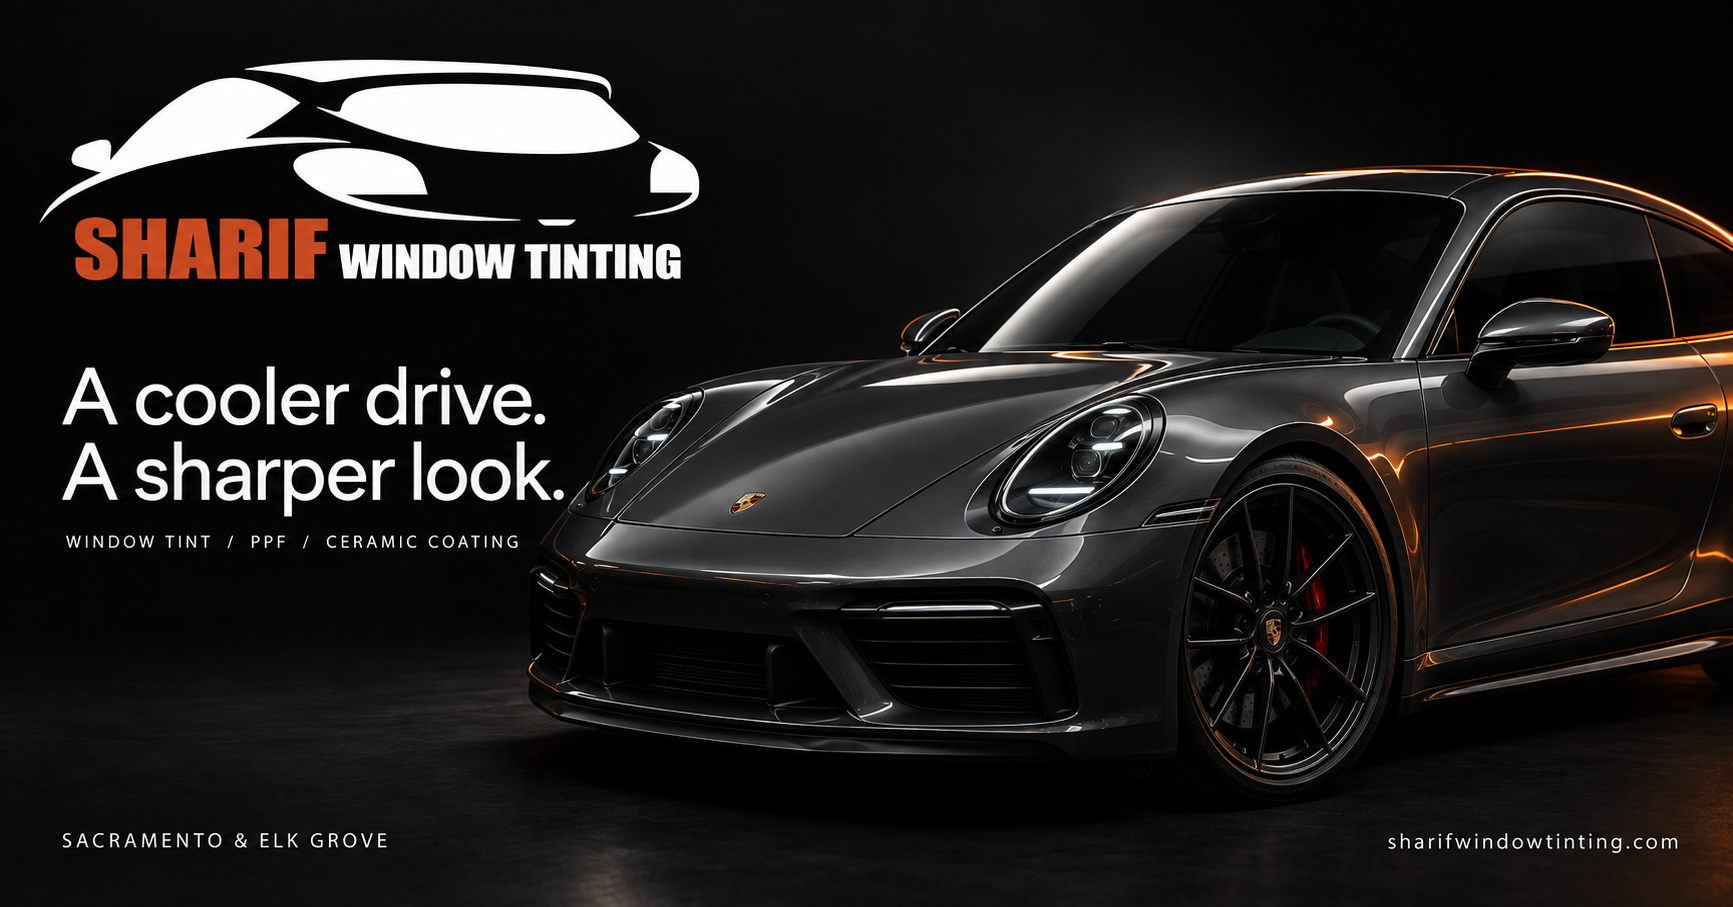
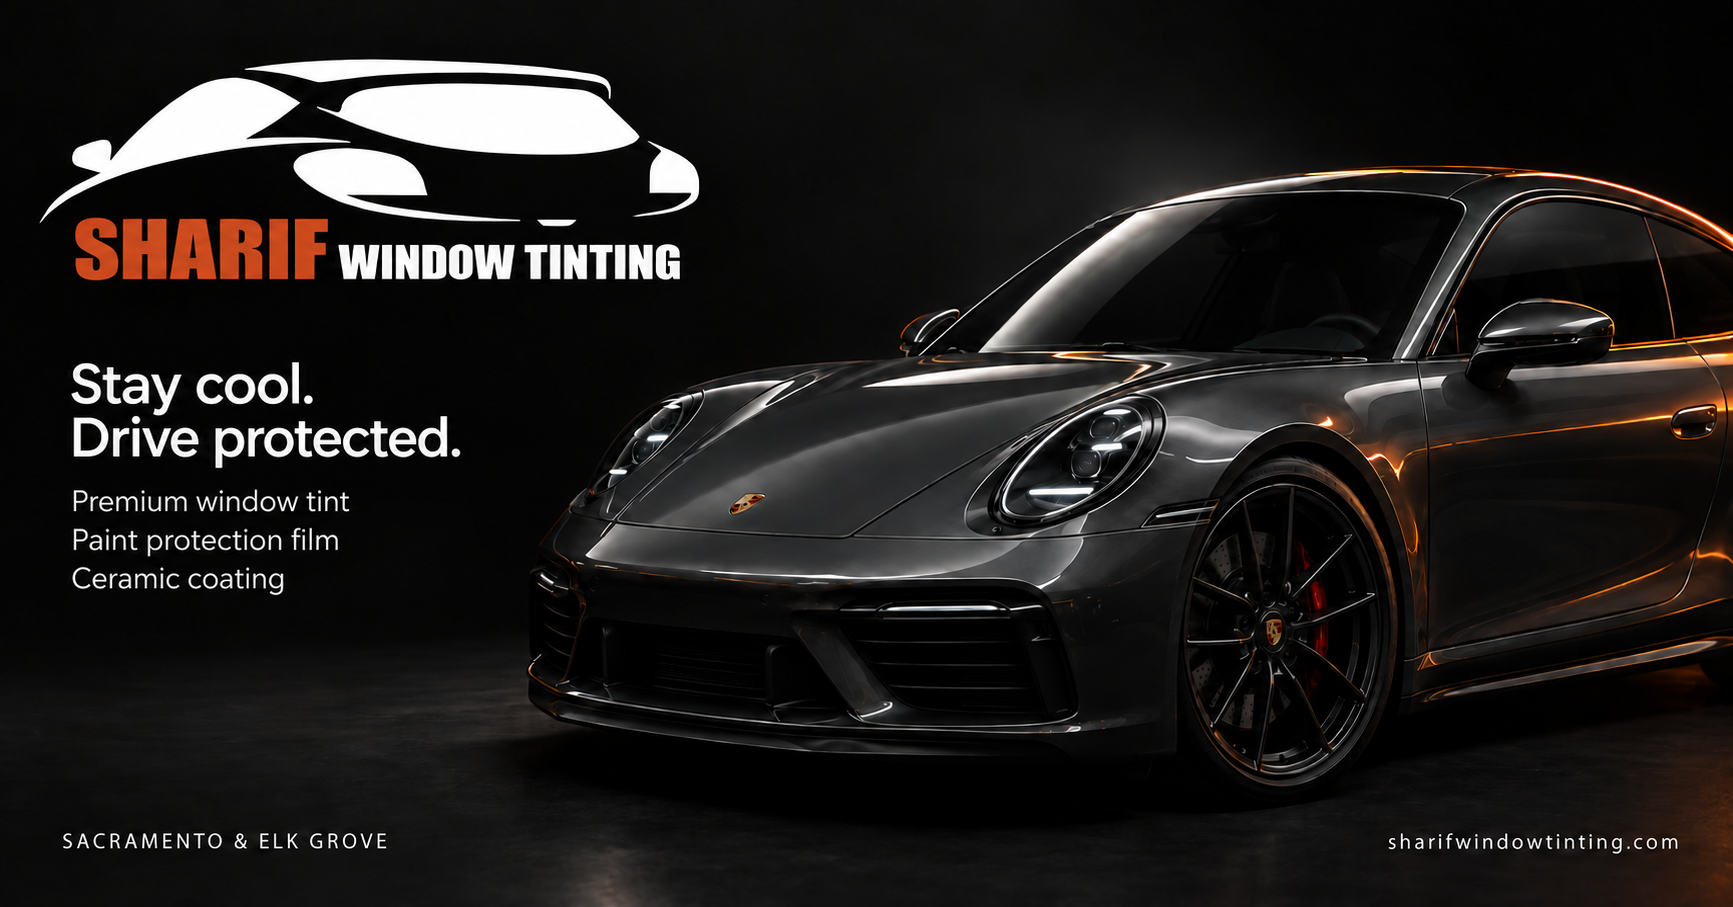
Improve search metadata and sharing images

diff --git a/index.html b/index.html
@@ -6,7 +6,7 @@
     <meta name="robots" content="index, follow, max-image-preview:large" />
     <meta
       name="description"
-      content="Sharif Window Tinting installs automotive tint, PPF, ceramic coating, commercial tint, and residential window film in Sacramento and Elk Grove, CA."
+      content="Window tint, PPF &amp; ceramic coating in Sacramento and Elk Grove. Keep your car cooler, protect your paint, and get a sharper look. Request a free quote."
     />
     <meta
       name="keywords"
@@ -19,31 +19,31 @@
     <meta name="theme-color" content="#0b0d12" />
     <link rel="canonical" href="https://sharifwindowtinting.com/" />
     <link rel="alternate" href="https://sharifwindowtinting.com/" hreflang="en-us" />
-    <link rel="icon" type="image/png" sizes="32x32" href="/icons/favicon-32.png" />
+    <link rel="icon" type="image/png" sizes="192x192" href="/icons/icon-192.png" />
     <link rel="apple-touch-icon" sizes="180x180" href="/icons/apple-touch-icon.png" />
     <link rel="manifest" href="/site.webmanifest" />
     <meta property="og:type" content="website" />
     <meta property="og:locale" content="en_US" />
     <meta property="og:site_name" content="Sharif Window Tinting" />
-    <meta property="og:title" content="Sharif Window Tinting | Sacramento Tint, PPF & Ceramic Coating" />
+    <meta property="og:title" content="Sharif Window Tinting | Sacramento &amp; Elk Grove" />
     <meta
       property="og:description"
-      content="Premium window tint, paint protection film, ceramic coating, and flat-glass film installation for Sacramento and Elk Grove."
+      content="Window tint, PPF &amp; ceramic coating in Sacramento and Elk Grove. Keep your car cooler, protect your paint, and get a sharper look. Request a free quote."
     />
     <meta property="og:url" content="https://sharifwindowtinting.com/" />
     <meta property="og:image" content="https://sharifwindowtinting.com/assets/sharif-social-sharing.png" />
     <meta property="og:image:type" content="image/png" />
     <meta property="og:image:width" content="1733" />
     <meta property="og:image:height" content="907" />
-    <meta property="og:image:alt" content="Sharif Window Tinting — A cooler drive. A sharper look. Window tint, PPF, and ceramic coating in Sacramento and Elk Grove." />
+    <meta property="og:image:alt" content="Sharif Window Tinting — Stay cool. Drive protected. Window tint, PPF, and ceramic coating in Sacramento and Elk Grove." />
     <meta name="twitter:card" content="summary_large_image" />
-    <meta name="twitter:title" content="Sharif Window Tinting | Sacramento Tint, PPF & Ceramic Coating" />
+    <meta name="twitter:title" content="Sharif Window Tinting | Sacramento &amp; Elk Grove" />
     <meta
       name="twitter:description"
-      content="Premium automotive window tint, PPF, ceramic coating, commercial tint, and residential window film in Sacramento and Elk Grove."
+      content="Window tint, PPF &amp; ceramic coating in Sacramento and Elk Grove. Keep your car cooler, protect your paint, and get a sharper look. Request a free quote."
     />
     <meta name="twitter:image" content="https://sharifwindowtinting.com/assets/sharif-social-sharing.png" />
-    <meta name="twitter:image:alt" content="Sharif Window Tinting — A cooler drive. A sharper look. Window tint, PPF, and ceramic coating in Sacramento and Elk Grove." />
+    <meta name="twitter:image:alt" content="Sharif Window Tinting — Stay cool. Drive protected. Window tint, PPF, and ceramic coating in Sacramento and Elk Grove." />
     <script type="application/ld+json">
       {
         "@context": "https://schema.org",
@@ -51,7 +51,7 @@
         "@id": "https://sharifwindowtinting.com/#business",
         "name": "Sharif Window Tinting",
         "url": "https://sharifwindowtinting.com/",
-        "image": "https://sharifwindowtinting.com/assets/services-premium-banner.png",
+        "image": "https://sharifwindowtinting.com/assets/sharif-search-square.png",
         "logo": "https://sharifwindowtinting.com/assets/logo.webp",
         "telephone": "+1-916-690-3999",
         "email": "info@sharifwindowtinting.com",
@@ -98,7 +98,7 @@
         ]
       }
     </script>
-    <title>Sharif Window Tinting | Sacramento Tint, PPF & Ceramic Coating</title>
+    <title>Sharif Window Tinting | Sacramento &amp; Elk Grove</title>
   </head>
   <body>
     <div id="root">
